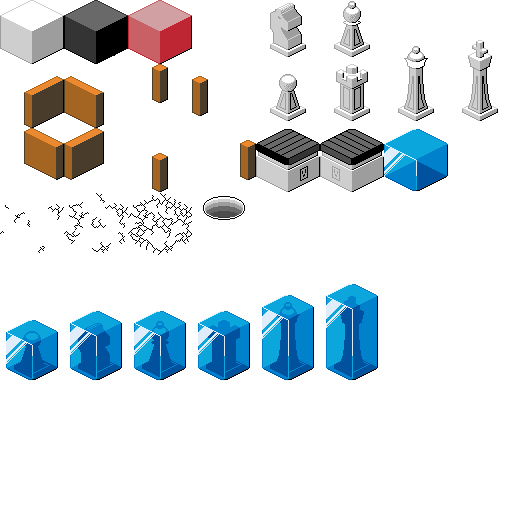
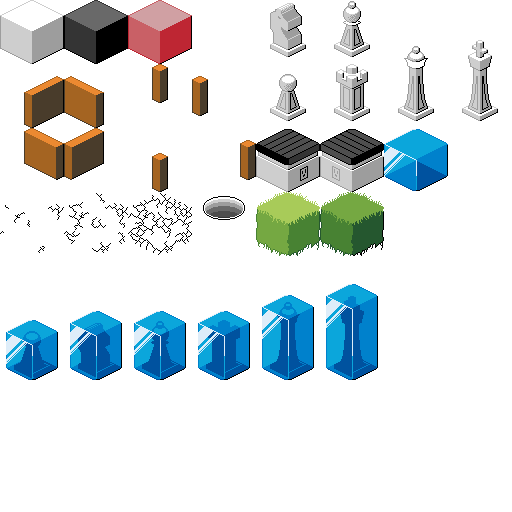
Added themes

Changed region(s): [[0.5, 0.375, 0.75, 0.5], [0.5, 0.25, 0.75, 0.3125]]

diff --git a/ChessGame/customtiles.cpp b/ChessGame/customtiles.cpp
@@ -3,11 +3,12 @@
 #include "textures.h"
 #include "board.h"
 #include <iostream>
+#include "Theme.h"
 
 BasicTile::BasicTile(raylib::Texture2D* texture) : Tile(), atlas(texture) {}
 
-void BasicTile::draw(RenderQueue& renderQueue, int x, int y, float z, bool selected, bool hide) {
-    TileType tileType = ((x + y) % 2 == 0) ? TILE_WHITE_CUBE : TILE_BLACK_CUBE;
+void BasicTile::draw(Theme& theme, RenderQueue& renderQueue, int x, int y, float z, bool selected, bool hide) {
+    TileType tileType = ((x + y) % 2 == 0) ? theme.getDefaultWhite() : theme.getDefaultBlack();
 
     TilePosition tile = tileData[tileType];
 
@@ -34,7 +35,7 @@ void BasicTile::updateState(Board& board) {
 
 IceTile::IceTile(raylib::Texture2D* texture) : Tile(1), atlas(texture) {}
 
-void IceTile::draw(RenderQueue& renderQueue, int x, int y, float z, bool selected, bool hide) {
+void IceTile::draw(Theme& theme, RenderQueue& renderQueue, int x, int y, float z, bool selected, bool hide) {
     TilePosition tile = tileData[TILE_ICE];
 
     Rectangle source = {
@@ -87,8 +88,8 @@ void IceTile::updateState(Board& board) {
 
 BreakingTile::BreakingTile(raylib::Texture2D* texture) : Tile(6), atlas(texture) {}
 
-void BreakingTile::draw(RenderQueue& renderQueue, int x, int y, float z, bool selected, bool hide) {
-    TileType tileType = ((x + y) % 2 == 0) ? TILE_WHITE_CUBE : TILE_BLACK_CUBE;
+void BreakingTile::draw(Theme& theme, RenderQueue& renderQueue, int x, int y, float z, bool selected, bool hide) {
+    TileType tileType = ((x + y) % 2 == 0) ? theme.getDefaultWhite() : theme.getDefaultBlack();
 
     TilePosition tile = tileData[tileType];
 
@@ -132,7 +133,7 @@ void BreakingTile::updateState(Board& board) {
 
 ConveyorTile::ConveyorTile(raylib::Texture2D* texture, Direction direction) : Tile(10), atlas(texture), direction(direction) {}
 
-void ConveyorTile::draw(RenderQueue& renderQueue, int x, int y, float z, bool selected, bool hide) {
+void ConveyorTile::draw(Theme& theme, RenderQueue& renderQueue, int x, int y, float z, bool selected, bool hide) {
     TileType tileType = TILE_HORIZONTAL_CONVEYOR;
 
     if (direction == UP || direction == DOWN) {
@@ -191,8 +192,8 @@ void ConveyorTile::updateState(Board& board) {
 
 PortalTile::PortalTile(raylib::Texture2D* texture, int portalNumber) : Tile(10), atlas(texture), portalNumber(portalNumber) { }
 
-void PortalTile::draw(RenderQueue& renderQueue, int x, int y, float z, bool selected, bool hide) {
-    TileType tileType = ((x + y) % 2 == 0) ? TILE_WHITE_CUBE : TILE_BLACK_CUBE;
+void PortalTile::draw(Theme& theme, RenderQueue& renderQueue, int x, int y, float z, bool selected, bool hide) {
+    TileType tileType = ((x + y) % 2 == 0) ? theme.getDefaultWhite() : theme.getDefaultBlack();
 
     TilePosition tile = tileData[tileType];
 

diff --git a/ChessGame/customtiles.h b/ChessGame/customtiles.h
@@ -1,6 +1,7 @@
 #pragma once
 #include "tile.h"
 #include "RenderQueue.h"
+#include "Theme.h"
 
 class BasicTile : public Tile {
     private:
@@ -9,7 +10,7 @@ class BasicTile : public Tile {
     public:
         BasicTile(raylib::Texture2D* texture);
 
-        void draw(RenderQueue& renderQueue, int x, int y, float z, bool selected, bool hide) override;
+        void draw(Theme& theme, RenderQueue& renderQueue, int x, int y, float z, bool selected, bool hide) override;
 
         void updateState(Board& board) override;
 };
@@ -21,7 +22,7 @@ class IceTile : public Tile {
     public:
         IceTile(raylib::Texture2D* texture);
 
-        void draw(RenderQueue& renderQueue, int x, int y, float z, bool selected, bool hide) override;
+        void draw(Theme& theme, RenderQueue& renderQueue, int x, int y, float z, bool selected, bool hide) override;
 
         void updateState(Board& board) override;
 };
@@ -33,7 +34,7 @@ class BreakingTile : public Tile {
     public:
         BreakingTile(raylib::Texture2D* texture);
 
-        void draw(RenderQueue& renderQueue, int x, int y, float z, bool selected, bool hide) override;
+        void draw(Theme& theme, RenderQueue& renderQueue, int x, int y, float z, bool selected, bool hide) override;
 
         void updateState(Board& board) override;
 };
@@ -53,7 +54,7 @@ class ConveyorTile : public Tile {
     public:
         ConveyorTile(raylib::Texture2D* texture, Direction direction);
 
-        void draw(RenderQueue& renderQueue, int x, int y, float z, bool selected, bool hide) override;
+        void draw(Theme& theme, RenderQueue& renderQueue, int x, int y, float z, bool selected, bool hide) override;
 
         void updateState(Board& board) override;
 };
@@ -66,7 +67,7 @@ class PortalTile : public Tile {
     public:
         PortalTile(raylib::Texture2D* texture, int portalNumber);
 
-        void draw(RenderQueue& renderQueue, int x, int y, float z, bool selected, bool hide) override;
+        void draw(Theme& theme, RenderQueue& renderQueue, int x, int y, float z, bool selected, bool hide) override;
 
         void updateState(Board& board) override;
 };

diff --git a/ChessGame/board.cpp b/ChessGame/board.cpp
@@ -1,6 +1,7 @@
 #include "board.h"
 #include <cmath>
 #include <algorithm>
+#include "Theme.h"
 
 void Board::drawTile(RenderQueue& renderQueue, int row, int col, TileType type) {
     TilePosition tile = tileData[type];
@@ -50,7 +51,7 @@ Board::Board(raylib::Texture2D* texture, vector<Player>& players) : atlas(textur
 
 }
 
-void Board::draw(RenderQueue& renderQueue, int player, int x, int y) {
+void Board::draw(Theme& theme, RenderQueue& renderQueue, int player, int x, int y) {
     bool hide = false; 
 
     std::vector<std::pair<int, int>> highlightTiles;
@@ -113,15 +114,15 @@ void Board::draw(RenderQueue& renderQueue, int player, int x, int y) {
 
             if (x == row && y == col) // Mouse is hovered
             {
-                tile->draw(renderQueue, row, col, waveOffset, true, false);
+                tile->draw(theme, renderQueue, row, col, waveOffset, true, false);
             }
             else if (it != highlightTiles.end()) // Possible moves on hovered piece
             {
-                tile->draw(renderQueue, row, col, waveOffset, true, false);
+                tile->draw(theme, renderQueue, row, col, waveOffset, true, false);
             }
             else // Normal rendering
             {
-                tile->draw(renderQueue, row, col, waveOffset, false, hide);
+                tile->draw(theme, renderQueue, row, col, waveOffset, false, hide);
             }
         }
     }

diff --git a/ChessGame/game.cpp b/ChessGame/game.cpp
@@ -1,7 +1,7 @@
 #include "game.h"
 #include <iostream>
 
-Game::Game(raylib::Texture2D* texture) : board(texture, players) {
+Game::Game(raylib::Texture2D* texture) : board(texture, players), theme(new SkyBackground(), TILE_GRASS_LIGHT, TILE_GRASS_DARK) {
 	players.push_back(Player("Player 1"));
 	players.push_back(Player("Player 2"));
 
@@ -23,18 +23,12 @@ Game::Game(raylib::Texture2D* texture) : board(texture, players) {
 	PlayMusicStream(musicBreak);
 	PlayMusicStream(musicConveyor);
 	PlayMusicStream(musicPortal);
-
-	background = new SpaceBackground();
 }
 
 void Game::draw() {
-	if (background) {
-		background->draw();
-	} else {
-		ClearBackground(WHITE);
-	}
+	theme.drawBackground();
 
-	board.draw(renderQueue, getPlayerTurn(), selectedTile.x, selectedTile.y);
+	board.draw(theme, renderQueue, getPlayerTurn(), selectedTile.x, selectedTile.y);
 
 	renderQueue.sortQueue();
 	renderQueue.draw();
@@ -42,9 +36,7 @@ void Game::draw() {
 }
 
 void Game::update() {
-	if (background) {
-		background->update();
-	}
+	theme.updateBackground();
 
 	board.update();
 }

diff --git a/ChessGame/Theme.cpp b/ChessGame/Theme.cpp
@@ -1,0 +1,25 @@
+#include "Theme.h"
+
+Theme::Theme(Background* background, TileType defaultWhite, TileType defaultBlack) : background(background), defaultWhite(defaultWhite), defaultBlack(defaultBlack) {}
+
+void Theme::drawBackground() {
+	if (background) {
+		background->draw();
+	} else {
+		ClearBackground(WHITE);
+	}
+}
+
+void Theme::updateBackground() {
+	if (background) {
+		background->update();
+	}
+}
+
+TileType Theme::getDefaultWhite() const {
+	return defaultWhite;
+}
+
+TileType Theme::getDefaultBlack() const {
+	return defaultBlack;
+}

diff --git a/ChessGame/tile.h b/ChessGame/tile.h
@@ -5,6 +5,7 @@
 #include "include/raylib-cpp.hpp"
 #include "isometric.h"
 #include "RenderQueue.h"
+#include "Theme.h"
 
 class Board;
 class Piece;
@@ -19,7 +20,7 @@ class Tile {
         Tile(int lifetime = -1);
         virtual ~Tile() {}
 
-        virtual void draw(RenderQueue& renderQueue, int x, int y, float z, bool selected, bool hide) = 0;
+        virtual void draw(Theme& theme, RenderQueue& renderQueue, int x, int y, float z, bool selected, bool hide) = 0;
 
         /// <summary>
         /// Update called every frame

diff --git a/ChessGame/Theme.h b/ChessGame/Theme.h
@@ -1,0 +1,27 @@
+#pragma once
+
+#ifndef THEME_H
+#define THEME_H
+
+#include "Background.h"
+#include "textures.h"
+
+class Theme {
+	private:
+		Background* background;
+
+		TileType defaultWhite;
+		TileType defaultBlack;
+
+	public:
+		Theme(Background* background, TileType defaultWhite, TileType defaultBlack);
+
+		void drawBackground();
+
+		void updateBackground();
+
+		TileType getDefaultWhite() const;
+		TileType getDefaultBlack() const;
+};
+
+#endif

diff --git a/ChessGame/Background.h b/ChessGame/Background.h
@@ -13,7 +13,6 @@ float random_float(float min, float max);
 class Background {
 	public:
 		virtual void draw() = 0;
-
 		virtual void update() = 0;
 };
 
@@ -32,7 +31,15 @@ class SpaceBackground : public Background {
 
 	public:
 		void draw() override;
+		void update() override;
+};
 
+class SkyBackground : public Background {
+	private:
+		Color backgroundColor = BLUE;
+
+	public:
+		void draw() override;
 		void update() override;
 };
 

diff --git a/ChessGame/Background.cpp b/ChessGame/Background.cpp
@@ -37,3 +37,12 @@ void SpaceBackground::update() {
 	// Remove any stars that have gone off the screen
 	stars.erase(std::remove_if(stars.begin(), stars.end(), [](Star& a) { return a.position.y > 20; }), stars.end());
 }
+
+
+void SkyBackground::draw() {
+	ClearBackground(Color{ 204, 230, 255, 255 });
+}
+
+void SkyBackground::update() {
+
+}

diff --git a/ChessGame/board.h b/ChessGame/board.h
@@ -47,7 +47,7 @@ class Board {
     public:
         Board(raylib::Texture2D* texture, vector<Player>& players);
 
-        void draw(RenderQueue& renderQueue, int player, int x, int y);
+        void draw(Theme& theme, RenderQueue& renderQueue, int player, int x, int y);
 
         /// <summary>
         /// Update called every frame

diff --git a/ChessGame/game.h b/ChessGame/game.h
@@ -4,7 +4,7 @@
 #include "board.h"
 #include "event.h"
 #include "RenderQueue.h"
-#include "Background.h"
+#include "Theme.h"
 
 class Game {
 	private:
@@ -24,7 +24,7 @@ class Game {
 
 		RenderQueue renderQueue;
 
-		Background* background;
+		Theme theme;
 
 		raylib::Vector2 selectedTile = { -1.0f, -1.0f };
 

diff --git a/ChessGame/textures.cpp b/ChessGame/textures.cpp
@@ -31,6 +31,9 @@ TilePosition tileData[] = {
     {2, 3}, // TILE_BREAK_LARGE
 
     {3, 3}, // TILE_PORTAL
+    {4, 3}, // TILE_GRASS_LIGHT
+    {5, 3}, // TILE_GRASS_DARK
+
     {0, 1}, // TILE_EAST_WALL
     {1, 1}, // TILE_SOUTH_WALL
     {2, 1}, // TILE_NW_CORNER
